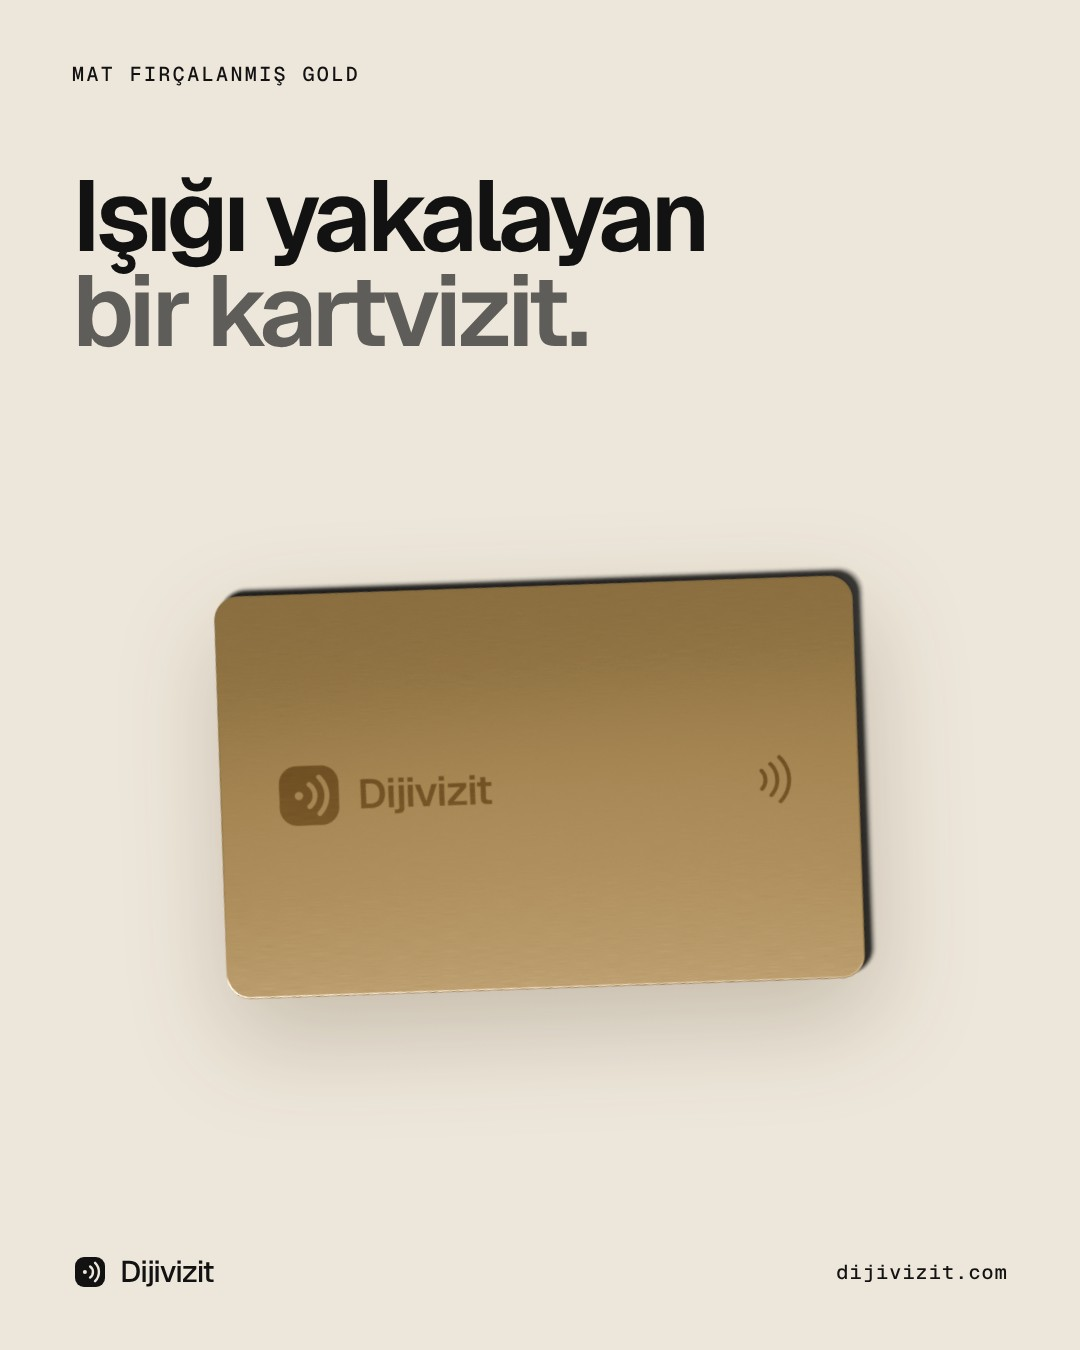
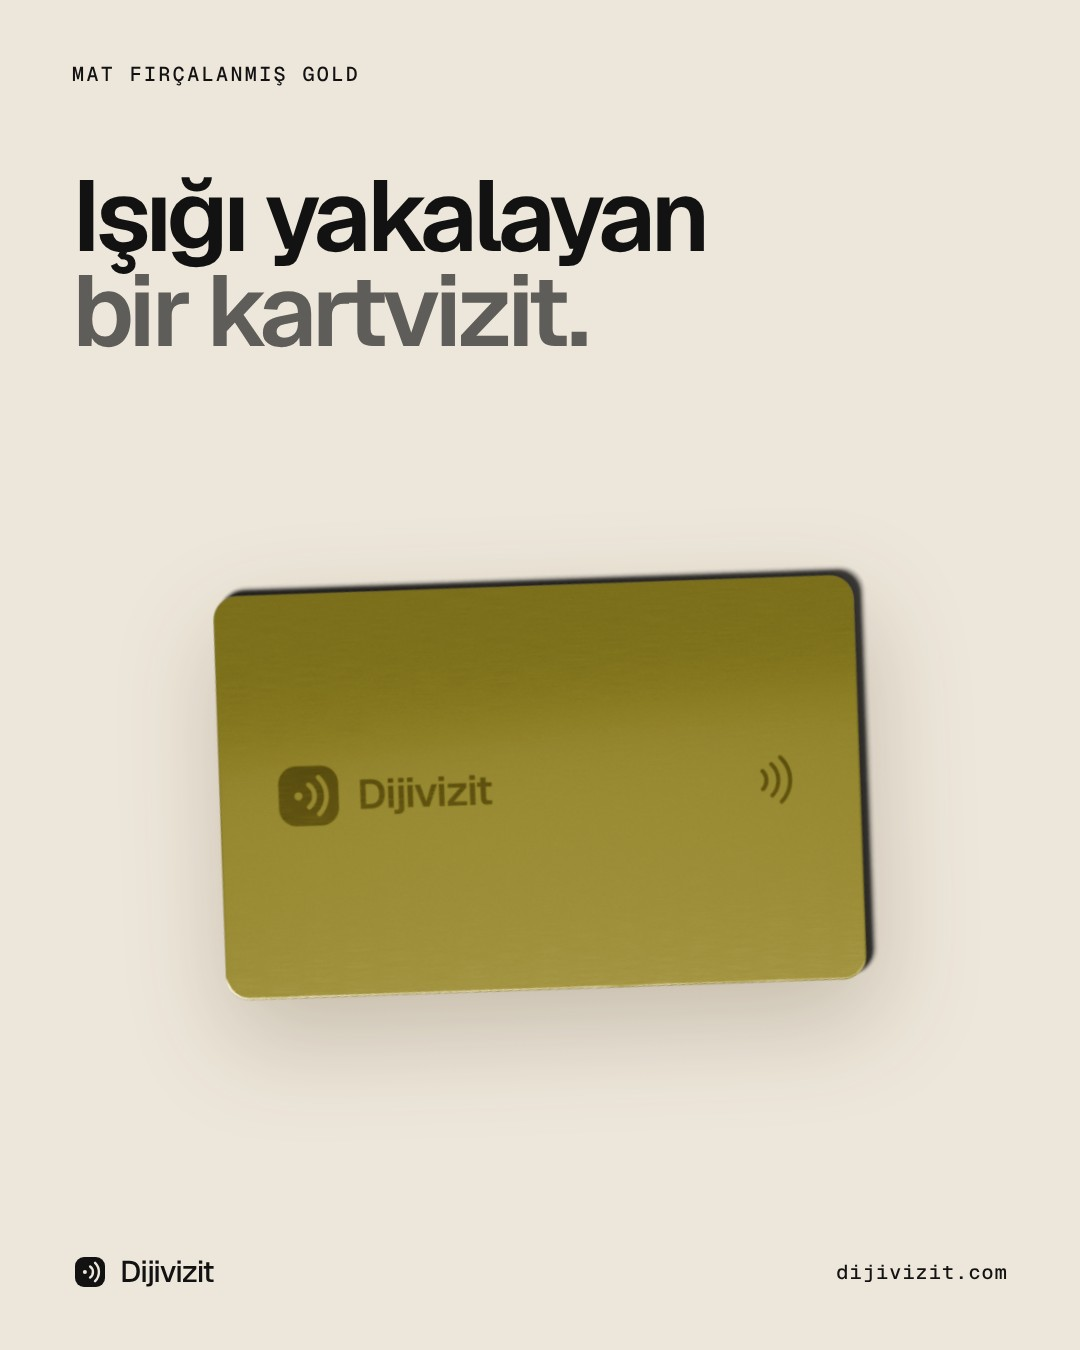
IG: yeni pirinç gold renderlarıyla 26/31/34/45 postlarını yeniden üret
Claude-Session: https://claude.ai/code/session_01RbxPV14g2sV64gxynTKrXk

Changed region(s): [[0.1833, 0.4044, 0.825, 0.7467]]

diff --git a/marketing/instagram/export.py b/marketing/instagram/export.py
@@ -21,7 +21,11 @@ out_stories = os.path.join(ROOT, "public", "ig", "stories")
 os.makedirs(out_posts, exist_ok=True)
 os.makedirs(out_stories, exist_ok=True)
 
+n = 0
 for e in sched["posts"]:
+    if e["source"] not in by_slug:  # partial rebuilds
+        continue
+    n += 1
     post = Image.open(by_slug[e["source"]]).convert("RGB")
     post.save(os.path.join(out_posts, e["id"] + ".jpg"), "JPEG", quality=90, optimize=True, progressive=False)
     # Story: the post on a blurred, softened copy of itself.
@@ -35,4 +39,4 @@ for e in sched["posts"]:
     p = post.resize((980, 1225), Image.LANCZOS)
     bg.paste(p, (50, 330))
     bg.save(os.path.join(out_stories, e["id"] + ".jpg"), "JPEG", quality=88, optimize=True)
-print("exported", len(sched["posts"]))
+print("exported", n)
